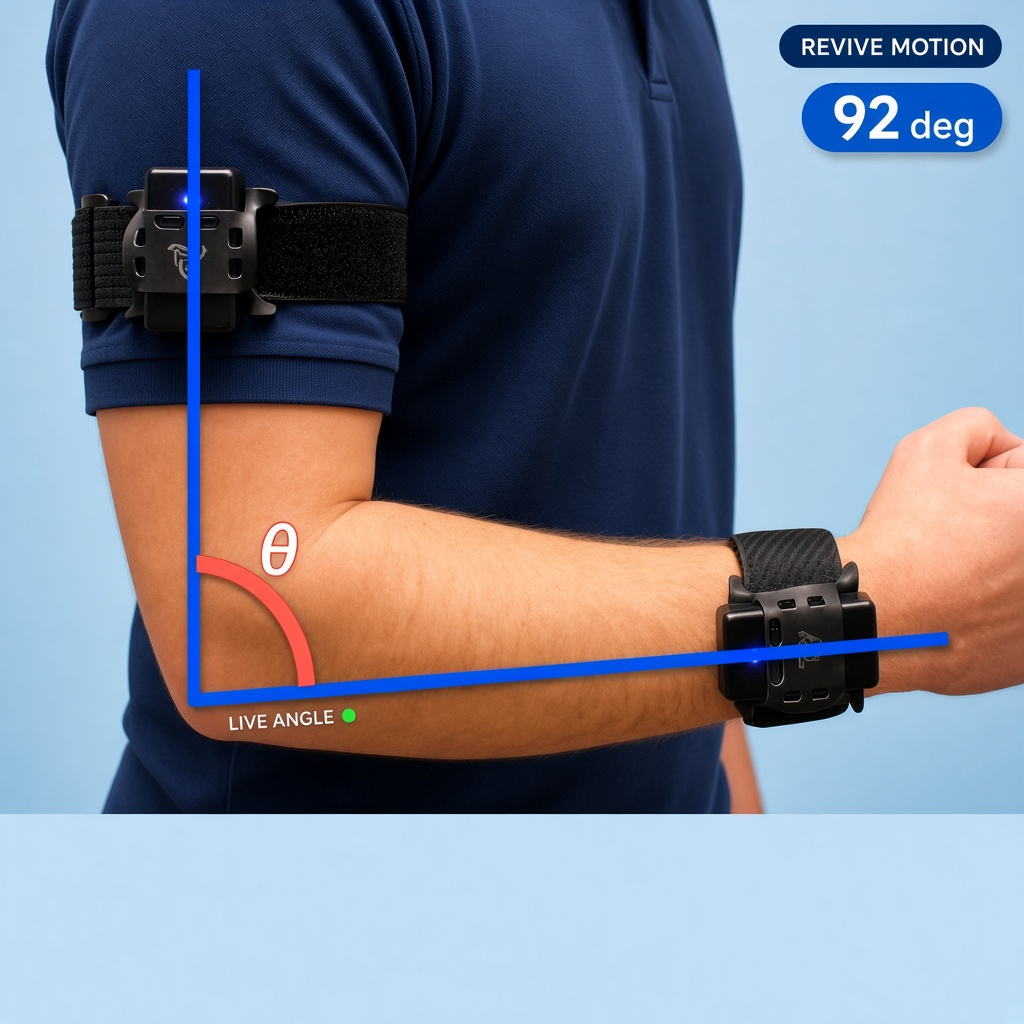
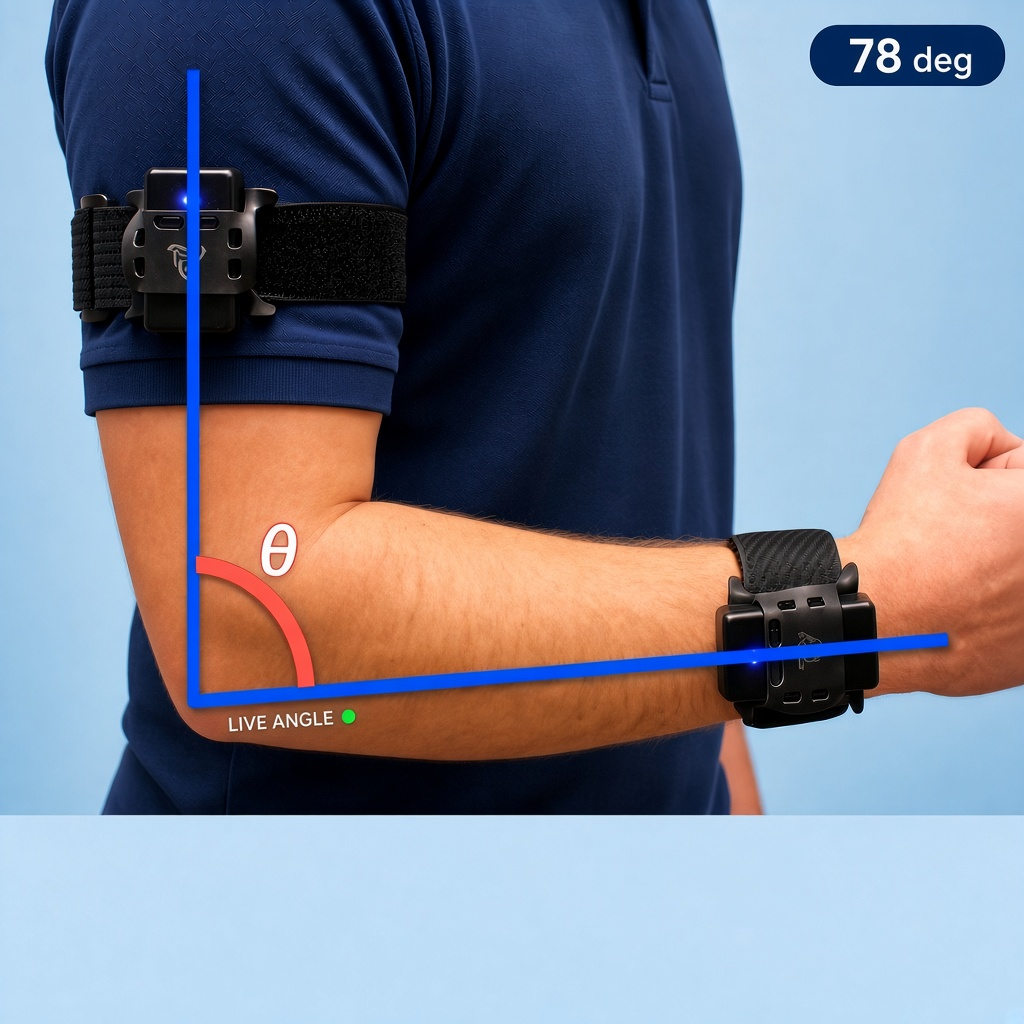
Match muscle still to the blue studio and split photo vs motion angles.
Drop the Revive Motion badge from the three sensor photos. Photo stays a 92 deg still; live motion shows 78 deg so both methods look useful.

diff --git a/src/components/LandingMedia.tsx b/src/components/LandingMedia.tsx
@@ -28,10 +28,10 @@ export function PhotoFrame({
   );
 }
 
-/** Unique square Revive Motion photo-goniometer shot, composed to fill overlay cards. */
+/** Unique square photo-goniometer shot, composed to fill overlay cards. */
 export function PhotoGoniometerPhoto({
   className = "",
-  alt = "Revive Motion photo goniometer: navy polo, smartphone photographing a bent knee with a live 92 degree overlay.",
+  alt = "Navy polo, smartphone photographing a bent knee with a still 92 degree overlay.",
   imgClassName = "object-cover object-center",
 }: {
   className?: string;
@@ -41,7 +41,7 @@ export function PhotoGoniometerPhoto({
   return (
     <div className={`relative overflow-hidden bg-[#d7e8f6] ${className}`}>
       <SafePicture
-        src="/images/landing-photo-goniometer.png?v=1"
+        src="/images/landing-photo-goniometer.png?v=2"
         alt={alt}
         className={`absolute inset-0 h-full w-full ${imgClassName}`}
       />
@@ -49,10 +49,10 @@ export function PhotoGoniometerPhoto({
   );
 }
 
-/** Unique square Revive Motion MPU shot, composed to fill overlay cards. */
+/** Unique square MPU shot, composed to fill overlay cards. */
 export function MpuAnglePhoto({
   className = "",
-  alt = "Revive Motion MPU-6050 straps on the upper arm and wrist with a live elbow angle of 92 degrees.",
+  alt = "MPU-6050 straps on the upper arm and wrist with a live elbow angle of 78 degrees.",
   imgClassName = "object-cover object-center",
 }: {
   className?: string;
@@ -62,7 +62,7 @@ export function MpuAnglePhoto({
   return (
     <div className={`relative overflow-hidden bg-[#d7e8f6] ${className}`}>
       <SafePicture
-        src="/images/landing-mpu.png?v=6"
+        src="/images/landing-mpu.png?v=7"
         alt={alt}
         className={`absolute inset-0 h-full w-full ${imgClassName}`}
       />
@@ -70,20 +70,22 @@ export function MpuAnglePhoto({
   );
 }
 
-/** MyoWare arm shot: contain + padding so the elbow, pads, and shirt stay inside the frame. */
+/** MyoWare arm shot on the same light-blue studio as photo and motion. */
 export function MyoWarePhoto({
   className = "",
   alt = "MyoWare 2.0 muscle sensor with electrode pads on an upper arm.",
+  imgClassName = "object-cover object-center",
 }: {
   className?: string;
   alt?: string;
+  imgClassName?: string;
 }) {
   return (
-    <div className={`relative overflow-hidden bg-white ${className}`}>
+    <div className={`relative overflow-hidden bg-[#d7e8f6] ${className}`}>
       <SafePicture
-        src="/images/landing-myoware.png?v=5"
+        src="/images/landing-myoware.png?v=6"
         alt={alt}
-        className="absolute inset-0 h-full w-full object-contain p-1.5 sm:p-2.5"
+        className={`absolute inset-0 h-full w-full ${imgClassName}`}
       />
     </div>
   );

diff --git a/src/components/AuthLanding.tsx b/src/components/AuthLanding.tsx
@@ -67,12 +67,12 @@ const ways: {
 }[] = [
   {
     title: "Photo",
-    text: "Phone camera. Tap hip, knee, then ankle. The angle is saved for the clinician.",
+    text: "Phone camera. Tap hip, knee, then ankle. A still reading, such as 92 deg, is saved for the clinician.",
     photo: true,
   },
   {
     title: "Motion sensor",
-    text: "MPU-6050 straps above and below the joint. Live angle while you move, such as 92 deg.",
+    text: "MPU-6050 straps above and below the joint. Live angle while you move, such as 78 deg.",
     mpu: true,
   },
   {
@@ -267,8 +267,8 @@ export function AuthLanding({ mode }: AuthLandingProps) {
                       </span>
                     </div>
                     <div className="flex flex-1 flex-col px-3 py-3">
-                      <p className="rm-serif text-3xl font-semibold leading-none">92 deg</p>
-                      <p className="mt-1 text-sm text-muted">Hold, then the next rep</p>
+                      <p className="rm-serif text-3xl font-semibold leading-none">78 deg</p>
+                      <p className="mt-1 text-sm text-muted">Live motion, not the still photo</p>
                       <div className="mt-auto flex items-center gap-1.5 pt-3">
                         <span className="h-2 w-2 rounded-full bg-brand" />
                         <span className="h-2 w-2 rounded-full bg-brand" />
@@ -282,9 +282,9 @@ export function AuthLanding({ mode }: AuthLandingProps) {
                   <div className="flex h-full flex-col px-3 py-3">
                     <p className="text-xs font-semibold text-[#2f4a60]">This week</p>
                     <p className="mt-0.5 text-base font-semibold sm:text-lg">Range this week</p>
-                    <div className="mt-2 flex gap-2">
-                      <span className="rounded-full bg-[#e8f3fb] px-2.5 py-1 text-xs font-semibold text-[#1b3348]">Latest 92 deg</span>
-                      <span className="rounded-full bg-[#e7f1ea] px-2.5 py-1 text-xs font-semibold text-[#2a7a58]">Toward goal</span>
+                    <div className="mt-2 flex flex-wrap gap-2">
+                      <span className="rounded-full bg-[#e8f3fb] px-2.5 py-1 text-xs font-semibold text-[#1b3348]">Photo 92 deg</span>
+                      <span className="rounded-full bg-[#e7f1ea] px-2.5 py-1 text-xs font-semibold text-[#2a7a58]">Live 78 deg</span>
                     </div>
                     <svg viewBox="0 0 200 90" className="mt-3 w-full flex-1" role="img" aria-label="Range of motion rising across the week">
                       <defs>

diff --git a/src/components/QuestGame.tsx b/src/components/QuestGame.tsx
@@ -42,21 +42,21 @@ const measures: { id: MeasureId; kicker: string; name: string; line: string; ima
     kicker: "Photo Goniometer",
     name: "Photo",
     line: "Live camera, or tap three points on a photo.",
-    image: "/images/landing-photo-goniometer.png?v=1",
+    image: "/images/landing-photo-goniometer.png?v=2",
   },
   {
     id: "motion",
     kicker: "MPU-6050",
     name: "Motion",
     line: "Strap the sensor. Live angle. The bots count.",
-    image: "/images/landing-mpu.png?v=6",
+    image: "/images/landing-mpu.png?v=7",
   },
   {
     id: "muscle",
     kicker: "MyoWare 2.0",
     name: "Muscle",
     line: "Flex. Bluetooth, USB, or practice.",
-    image: "/images/landing-myoware.png?v=5",
+    image: "/images/landing-myoware.png?v=6",
   },
 ];
 
@@ -283,7 +283,7 @@ export function QuestGame({
                   alt=""
                   width={240}
                   height={160}
-                  className={`h-24 w-28 shrink-0 object-cover ${item.id === "muscle" ? "object-contain bg-white p-1" : ""}`}
+                  className="h-24 w-28 shrink-0 object-cover"
                 />
                 <span className="flex flex-1 flex-col justify-center px-4 py-3">
                   <span className="text-sm font-semibold text-[#5b6685]">{item.kicker}</span>

diff --git a/src/app/page.tsx b/src/app/page.tsx
@@ -111,22 +111,21 @@ export default function Home() {
           <div className="mt-4 grid gap-3 lg:grid-cols-3">
             <DashPhotoLink
               href="/goniometer"
-              src="/images/landing-photo-goniometer.png?v=1"
+              src="/images/landing-photo-goniometer.png?v=2"
               kicker="01 Measure"
               title="Photo Goniometer"
               text="Side-view photo or clip. The angle is saved."
             />
             <DashPhotoLink
               href="/muscle"
-              src="/images/landing-myoware.png?v=5"
+              src="/images/landing-myoware.png?v=6"
               kicker="02 Muscle"
               title="MyoWare 2.0"
               text="Connect Bluetooth or USB, then flex."
-              imgClassName="object-contain bg-white p-3"
             />
             <DashPhotoLink
               href="/session"
-              src="/images/landing-mpu.png?v=6"
+              src="/images/landing-mpu.png?v=7"
               kicker="03 Coach"
               title="Live session"
               text="Run today’s ROM test and exercises."

diff --git a/src/app/briefing/page.tsx b/src/app/briefing/page.tsx
@@ -82,18 +82,17 @@ export default function BriefingPage() {
       <div className="mt-6 grid gap-3 lg:grid-cols-3">
         <DashPhotoLink
           href="/goniometer"
-          src="/images/landing-photo-goniometer.png?v=1"
+          src="/images/landing-photo-goniometer.png?v=2"
           kicker="Measure"
           title="Record today’s clip"
           text={progress.headline}
         />
         <DashPhotoLink
           href="/muscle"
-          src="/images/landing-myoware.png?v=5"
+          src="/images/landing-myoware.png?v=6"
           kicker="Muscle"
           title="Connect MyoWare"
           text="Flex after Bluetooth or USB."
-          imgClassName="object-contain bg-white p-3"
         />
         <DashPhotoLink
           href="/check-in"

diff --git a/src/app/dashboard/page.tsx b/src/app/dashboard/page.tsx
@@ -71,14 +71,14 @@ export default function DashboardPage() {
       <div className="mt-6 grid gap-3 lg:grid-cols-3">
         <DashPhotoLink
           href="/goniometer"
-          src="/images/landing-photo-goniometer.png?v=1"
+          src="/images/landing-photo-goniometer.png?v=2"
           kicker="01 Measure"
           title="Photo Goniometer"
           text="Take the side-view photo first."
         />
         <DashPhotoLink
           href="/session"
-          src="/images/landing-mpu.png?v=6"
+          src="/images/landing-mpu.png?v=7"
           kicker="02 Coach"
           title="Live session"
           text="Follow today’s ROM test."

diff --git a/src/app/muscle/page.tsx b/src/app/muscle/page.tsx
@@ -42,7 +42,7 @@ export default function MuscleSensorPage() {
         title="MyoWare 2.0"
         text="Connect with Bluetooth or USB, then flex. Saved effort stays on this device."
       />
-      <PhotoFrame src="/images/landing-myoware.png?v=5" alt="" className="mt-5 h-40 rounded-[1.35rem]" imgClassName="object-contain bg-white p-4" />
+      <PhotoFrame src="/images/landing-myoware.png?v=6" alt="" className="mt-5 h-40 rounded-[1.35rem]" />
 
       <DashCard className="mt-6 p-5">
           <h2 className="font-semibold">Wireless — do this now</h2>

diff --git a/src/app/session/page.tsx b/src/app/session/page.tsx
@@ -142,7 +142,7 @@ export default function SessionPage() {
       />
       <div className="mt-5">
         <DashHero
-          src="/images/landing-mpu.png?v=6"
+          src="/images/landing-mpu.png?v=7"
           kicker="03 Coach"
           title={recording ? "Recording now" : "Ready to record"}
           text={recording ? "Hold the pose. End the test when the peak looks honest." : "Connect MyoWare if you have it, then start the ROM test."}

diff --git a/src/app/check-in/page.tsx b/src/app/check-in/page.tsx
@@ -18,7 +18,7 @@ export default function CheckInPage() {
       <div className="mt-6">
         <DashPhotoLink
           href="/goniometer"
-          src="/images/landing-photo-goniometer.png?v=1"
+          src="/images/landing-photo-goniometer.png?v=2"
           kicker="After check-in"
           title="Photo Goniometer"
           text="Record a side-view clip so the coach can save today’s peak."

diff --git a/src/app/goniometer/page.tsx b/src/app/goniometer/page.tsx
@@ -27,7 +27,7 @@ export default function GoniometerPage() {
         text="Take a side-view photo or clip. Tap hip, knee, then ankle if the camera cannot see the joint."
       />
       <PhotoFrame
-        src="/images/landing-photo-goniometer.png?v=1"
+        src="/images/landing-photo-goniometer.png?v=2"
         alt=""
         className="mt-5 h-36 rounded-[1.35rem] sm:h-44"
       />
